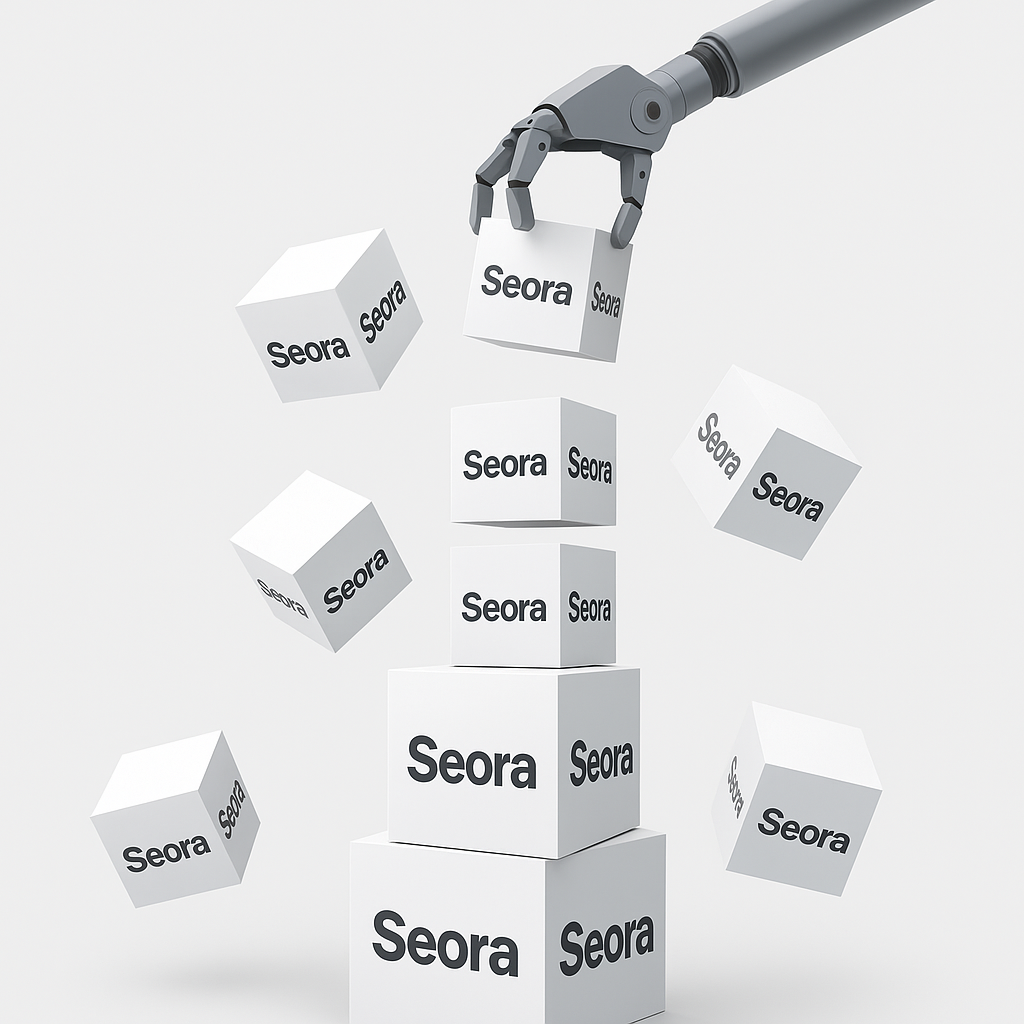
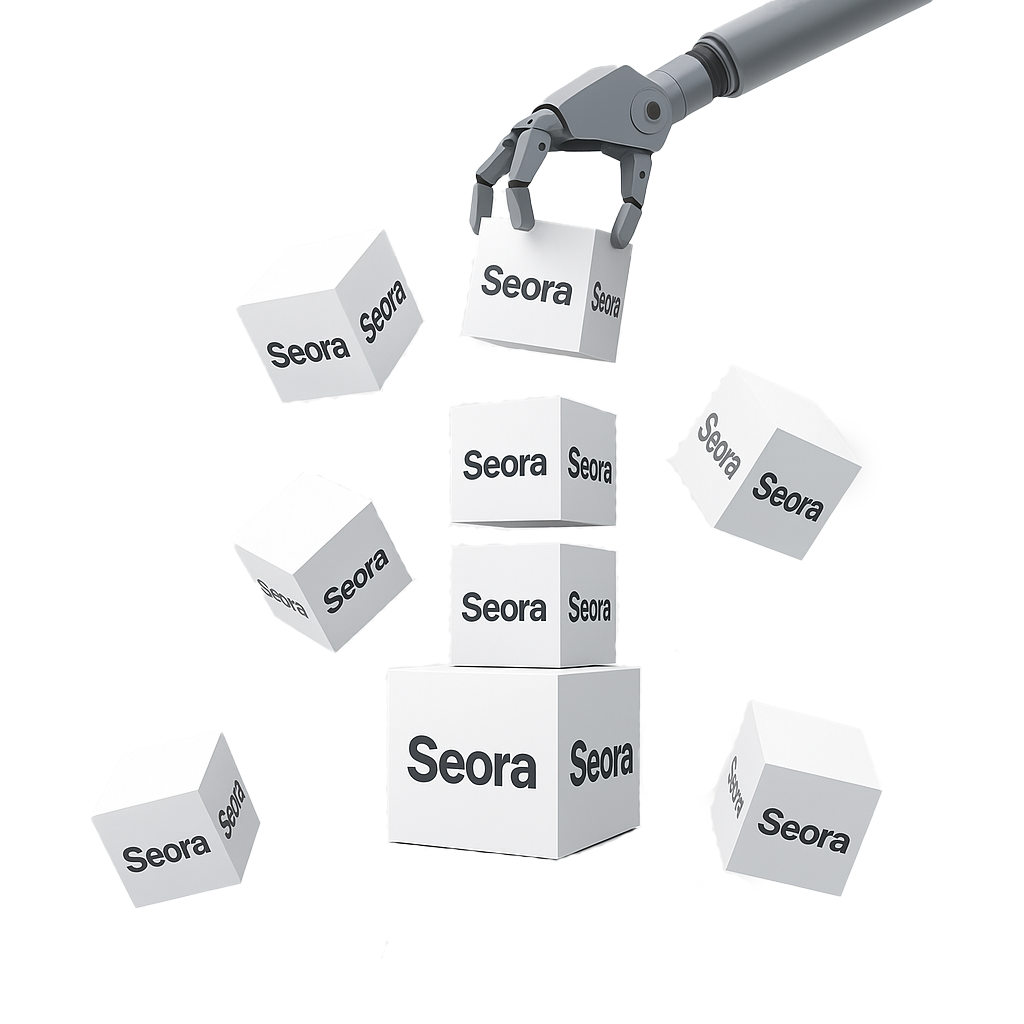
done

Changed region(s): [[0.125, 0.8125, 0.9062, 1.0]]

diff --git a/client/src/pages/mainhome.jsx b/client/src/pages/mainhome.jsx
@@ -4,6 +4,7 @@ import { motion } from "framer-motion";
 import "@fontsource/playfair-display";
 import "@fontsource/open-sans";
 import Hero from "../img/hero.png";
+import Cube from "../img/cube.png";
 
 const leftToCenter = {
   hidden: { opacity: 0, x: -100 },
@@ -14,7 +15,7 @@ export default function HomePage() {
   return (
     <div className="bg-[#f7f7f7] text-[#2c2c2c] font-sans">
       {/* ⭐ HERO SECTION */}
-      <section className="bg-[#f7f7f7] py-12 px-4">
+      <section className="bg-[#f7f7f7]  px-4">
         <div className="max-w-6xl mx-auto flex flex-col md:flex-row items-center md:justify-between gap-8">
           <div className="md:w-1/2 text-center md:text-left">
             <h1 className="text-3xl md:text-5xl font-playfair font-bold mb-6 leading-tight">
@@ -24,11 +25,11 @@ export default function HomePage() {
               Take the Quiz
             </button>
           </div>
-          <div className="md:w-1/2 flex justify-center md:justify-end">
+          <div className="">
             <img
               src={Hero}
               alt="Skincare"
-              className="rounded-lg shadow-lg w-full max-w-md object-cover"
+              className=""
             />
           </div>
         </div>
@@ -146,9 +147,9 @@ export default function HomePage() {
             viewport={{ once: true, amount: 0.3 }}
           >
             <img
-              src="https://images.pexels.com/photos/97080/pexels-photo-97080.jpeg"
+              src={Cube}
               alt="About Seora"
-              className="rounded-xl shadow-lg w-full max-w-md object-cover"
+              className=""
             />
           </motion.div>
         </div>
@@ -346,59 +347,60 @@ export default function HomePage() {
 
    
 {/* ⭐ WHY CHOOSE US */}
+{/* ⭐ WHY CHOOSE US */}
 <section className="py-12 px-4 bg-[#f7f7f7]">
   <h1 className="text-center text-4xl sm:text-5xl font-playfair font-bold mb-12">
     Why Choose Us
   </h1>
 
-  <div className="max-w-4xl mx-auto bg-white border border-gray-200 rounded-xl p-8 shadow-md">
-    <div className="space-y-6">
-      {[
-        {
-          title: "Experienced Team",
-          desc: "Our developers and designers bring years of expertise to every project.",
-          img: "https://cdn-icons-png.flaticon.com/512/2922/2922510.png"
-        },
-        {
-          title: "Client-Centric Approach",
-          desc: "We understand your goals and tailor solutions to meet them.",
-          img: "https://cdn-icons-png.flaticon.com/512/3135/3135715.png"
-        },
-        {
-          title: "Agile Development",
-          desc: "Quick iterations with transparent communication and delivery.",
-          img: "https://cdn-icons-png.flaticon.com/512/2721/2721299.png"
-        },
-        {
-          title: "Affordable Pricing",
-          desc: "High quality digital solutions at competitive rates.",
-          img: "https://cdn-icons-png.flaticon.com/512/1040/1040230.png"
-        }
-      ].map((reason, idx) => (
-        <motion.div
-          key={idx}
-          className="border border-gray-200 p-4 rounded-lg shadow-sm flex items-center gap-6 hover:shadow-lg transition bg-[#f9f9f9]"
-          variants={leftToCenter}
-          initial="hidden"
-          whileInView="visible"
-          viewport={{ once: true, amount: 0.3 }}
-        >
-          <img
-            src={reason.img}
-            alt={reason.title}
-            className="w-12 h-12 object-contain"
-          />
-          <div>
-            <h3 className="text-lg font-playfair font-semibold mb-1">
-              {reason.title}
-            </h3>
-            <p className="text-gray-700 text-sm">{reason.desc}</p>
-          </div>
-        </motion.div>
-      ))}
-    </div>
+  <div className="max-w-6xl mx-auto grid grid-cols-1 md:grid-cols-2 gap-6">
+    {[
+      {
+        title: "Experienced Team",
+        desc: "Our developers and designers bring years of expertise to every project.",
+        img: "https://cdn-icons-png.flaticon.com/512/2922/2922510.png"
+      },
+      {
+        title: "Client-Centric Approach",
+        desc: "We understand your goals and tailor solutions to meet them.",
+        img: "https://cdn-icons-png.flaticon.com/512/3135/3135715.png"
+      },
+      {
+        title: "Agile Development",
+        desc: "Quick iterations with transparent communication and delivery.",
+        img: "https://cdn-icons-png.flaticon.com/512/2721/2721299.png"
+      },
+      {
+        title: "Affordable Pricing",
+        desc: "High quality digital solutions at competitive rates.",
+        img: "https://cdn-icons-png.flaticon.com/512/1040/1040230.png"
+      }
+    ].map((reason, idx) => (
+      <motion.div
+        key={idx}
+        className="bg-white border border-gray-200 p-6 rounded-lg shadow-sm flex items-center gap-6 hover:shadow-md transition"
+        variants={leftToCenter}
+        initial="hidden"
+        whileInView="visible"
+        viewport={{ once: true, amount: 0.3 }}
+      >
+        <img
+          src={reason.img}
+          alt={reason.title}
+          className="w-14 h-14 object-contain"
+        />
+        <div>
+          <h3 className="text-xl font-playfair font-semibold mb-1">
+            {reason.title}
+          </h3>
+          <p className="text-gray-700 text-sm">{reason.desc}</p>
+        </div>
+      </motion.div>
+    ))}
   </div>
 </section>
+
+
 
 
     
